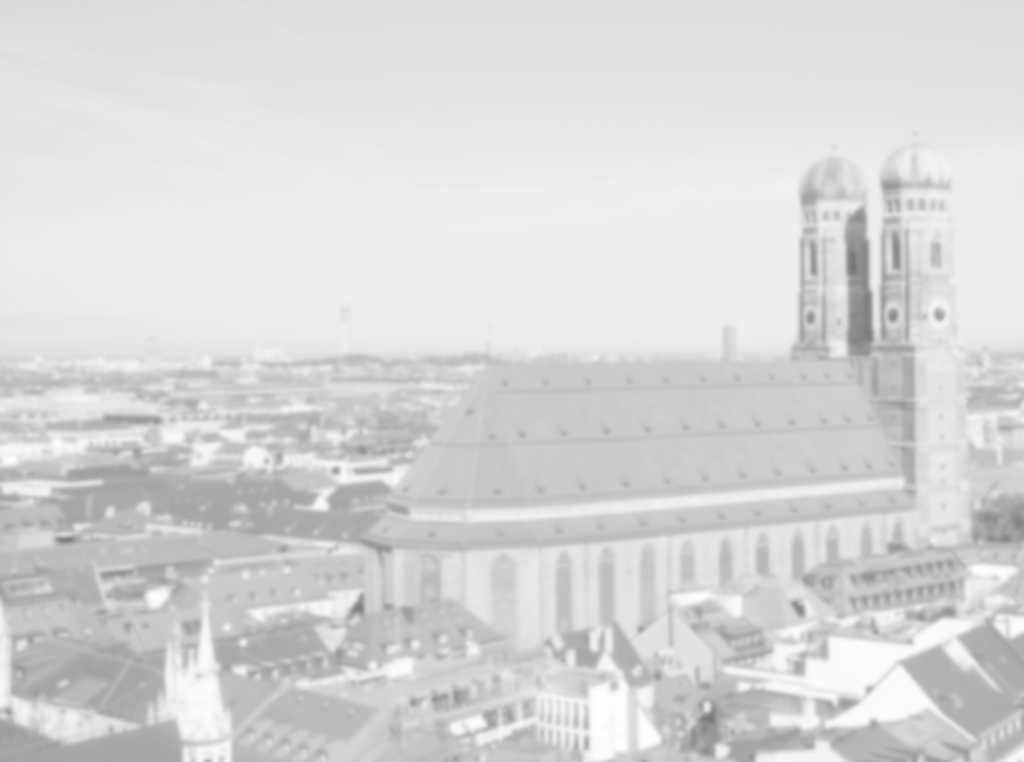
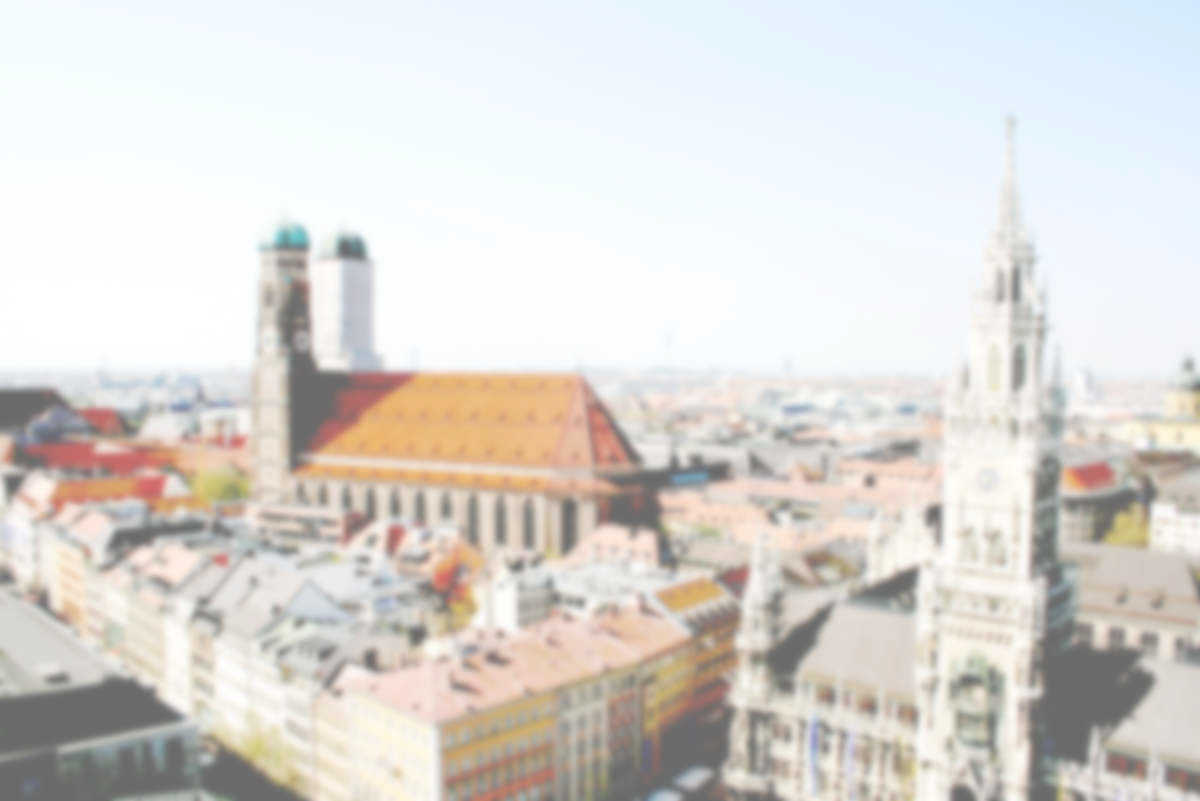
minor modification

diff --git a/index.html b/index.html
@@ -20,7 +20,7 @@
             Nächster <span class="important-info">Stammtisch</span><br>
             <span class="important-info">13. Februar</span> 2014<br>
             <span class="important-info">19 Uhr</span><br>
-            Irgendwo in München
+            Irgendwo in München (TBA)
         </div>
     </section>
 
@@ -30,7 +30,7 @@
         </p>
 
         <p>
-            Das Ziel dieser Gruppe ist es, Menschen, die sich mit der Methode "<a
+            Das Ziel der Design Thinking München Gruppe ist es, Menschen, die sich mit der Methode "<a
                 href="http://de.wikipedia.org/wiki/Design_Thinking">Design Thinking</a>" auseinandersetzen wollen, in
             und um München regelmäßig zusammenzubringen, und einen persönlichen Erfahrungsaustausch zu etablieren. Dazu
             dienen neben den <a href="https://www.xing.com/net/designthinking-muc/">Xing-Gruppen</a>-Möglichkeiten
@@ -72,13 +72,14 @@
         <div id="footer-content">
             <ul>
                 <li><a href="https://www.xing.com/net/designthinking-muc/">Xing-Gruppe</a></li>
-                <li><a href="https://dt-muc.atlassian.net">Wiki</a></li>
+                <li><a href="https://dt-muc.atlassian.net/wiki/display/dtmuc/Home">Wiki</a></li>
                 <li><a href="https://twitter.com/dt_muc">Twitter</a></li>
                 <li><a href="mailto:info@dt-muc.de">Email</a></li>
             </ul>
             <hr>
             <div id="colophon">
-                <a href="#">Impressum</a> — Bild aus <a href="http://flic.kr/p/9DmpoY">http://flic.kr/p/9DmpoY</a>, leicht modifiziert
+                <a href="https://dt-muc.atlassian.net/wiki/display/dtmuc/Impressum">Impressum</a> — Bild aus <a
+                    href="http://flic.kr/p/9DmpoY">http://flic.kr/p/9DmpoY</a>, leicht modifiziert
             </div>
         </div>
     </section>

diff --git a/styles.css b/styles.css
@@ -29,7 +29,7 @@ ul {
   position: relative;
   height: 72em;
   padding: 0 40px;
-  background-image: url("munich-color-3.jpg");
+  background-image: url("munich.jpg");
   background-position: -100px 0;
   background-repeat: no-repeat; }
   #splash #statement {

diff --git a/styles.scss b/styles.scss
@@ -73,7 +73,7 @@ ul {
   height: 72em;
   padding: 0 $padding;
 
-  background-image: url("munich-color-3.jpg");
+  background-image: url("munich.jpg");
   background-position: -100px 0;
   background-repeat: no-repeat;
 
